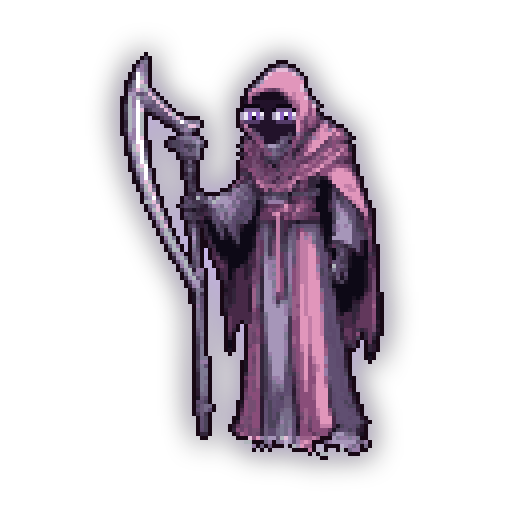
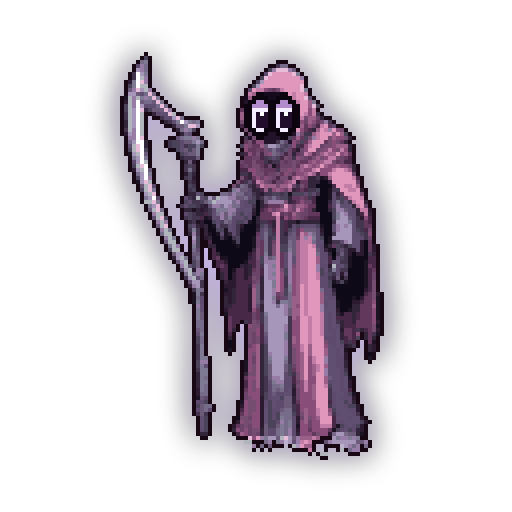
Bring back the reaper's cartoon eyes, with a thick black outline
The realistic eyes are gone. The cartoon ovals with big side-set pupils are
back, now touching, with a black outline two pixels thick round the pair.
The icons match.

Changed region(s): [[0.4688, 0.1562, 0.5938, 0.2812]]

diff --git a/desktop/renderer/style.css b/desktop/renderer/style.css
@@ -92,17 +92,18 @@ body.is-capturing * { visibility: hidden !important; }
 
 .reaper.is-sleeping .sprite { animation-duration: 6s; }
 
-/* His eyes, a separate layer over the hood: almond-shaped, with violet irises
-   under heavy, bored lids. They blink now and then and glance aside. Shut
-   while he sleeps. */
+/* His cartoon eyes, a separate layer over the hood: two touching ovals with a
+   thick black outline and big pupils that look off to the side, bored and
+   half-lidded. They blink now and then and glance the other way. Shut while
+   he sleeps. */
 .sprite { position: relative; image-rendering: pixelated; }
 .eyes {
   position: absolute;
-  left: 42px;
-  top: 19px;
+  left: 43px;
+  top: 16px;
   width: 14px;
-  height: 5px;
-  background: url('../assets/eyes.png') 0 0 / 42px 5px no-repeat;
+  height: 12px;
+  background: url('../assets/eyes.png') 0 0 / 42px 12px no-repeat;
   image-rendering: pixelated;
   filter: drop-shadow(0 0 2px rgba(220, 200, 255, 0.9));
   animation: glance 11s steps(1, end) infinite;
